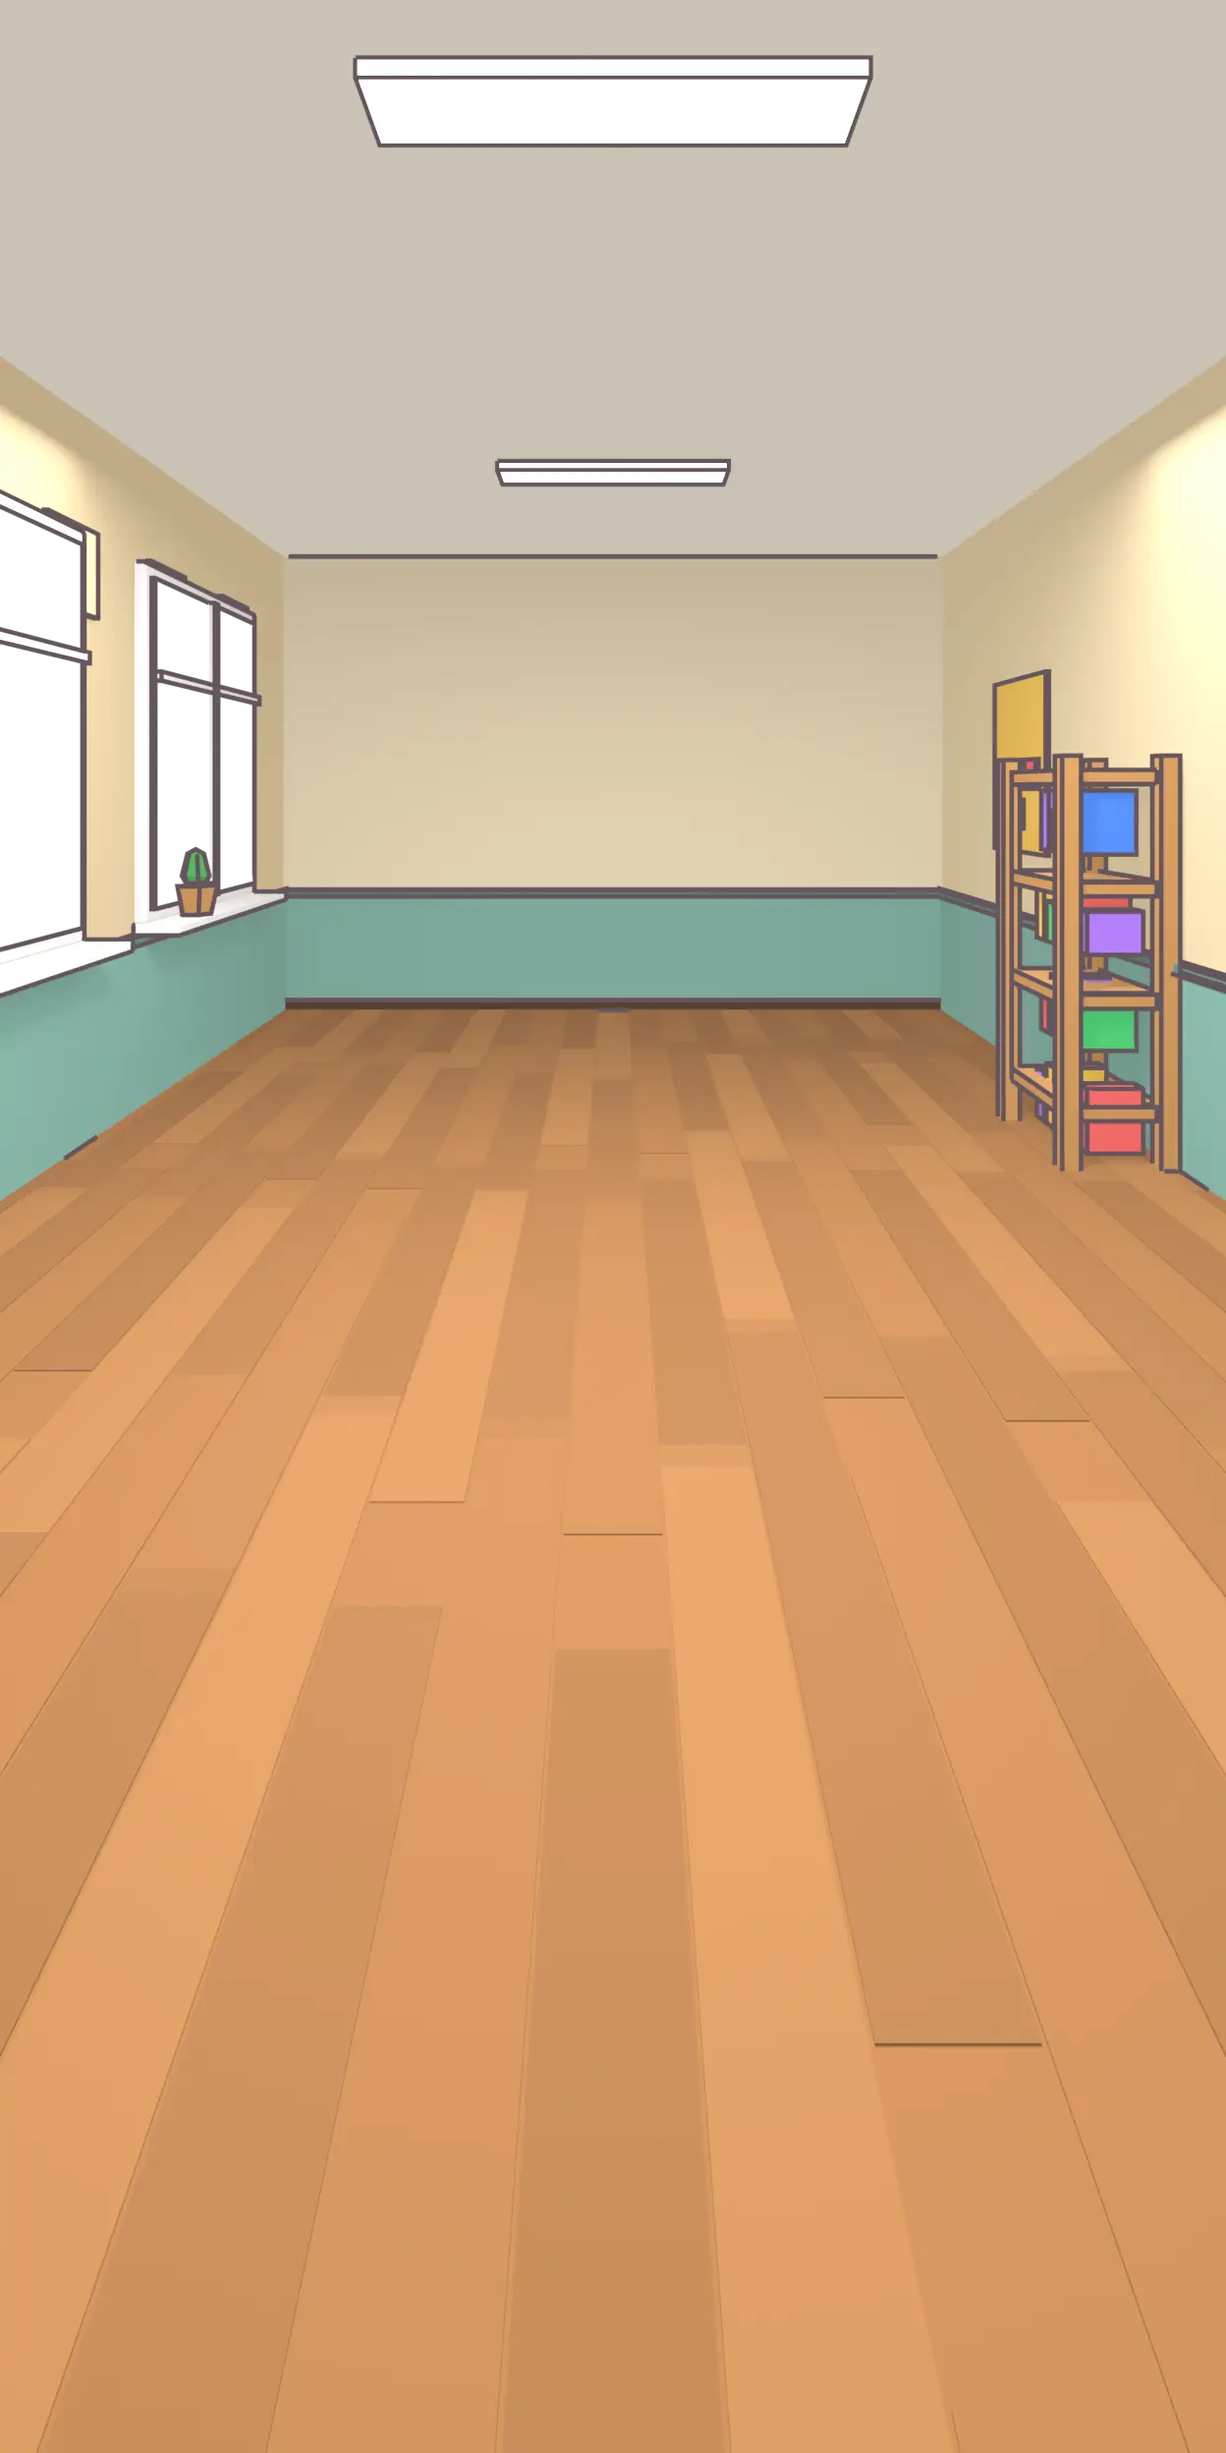
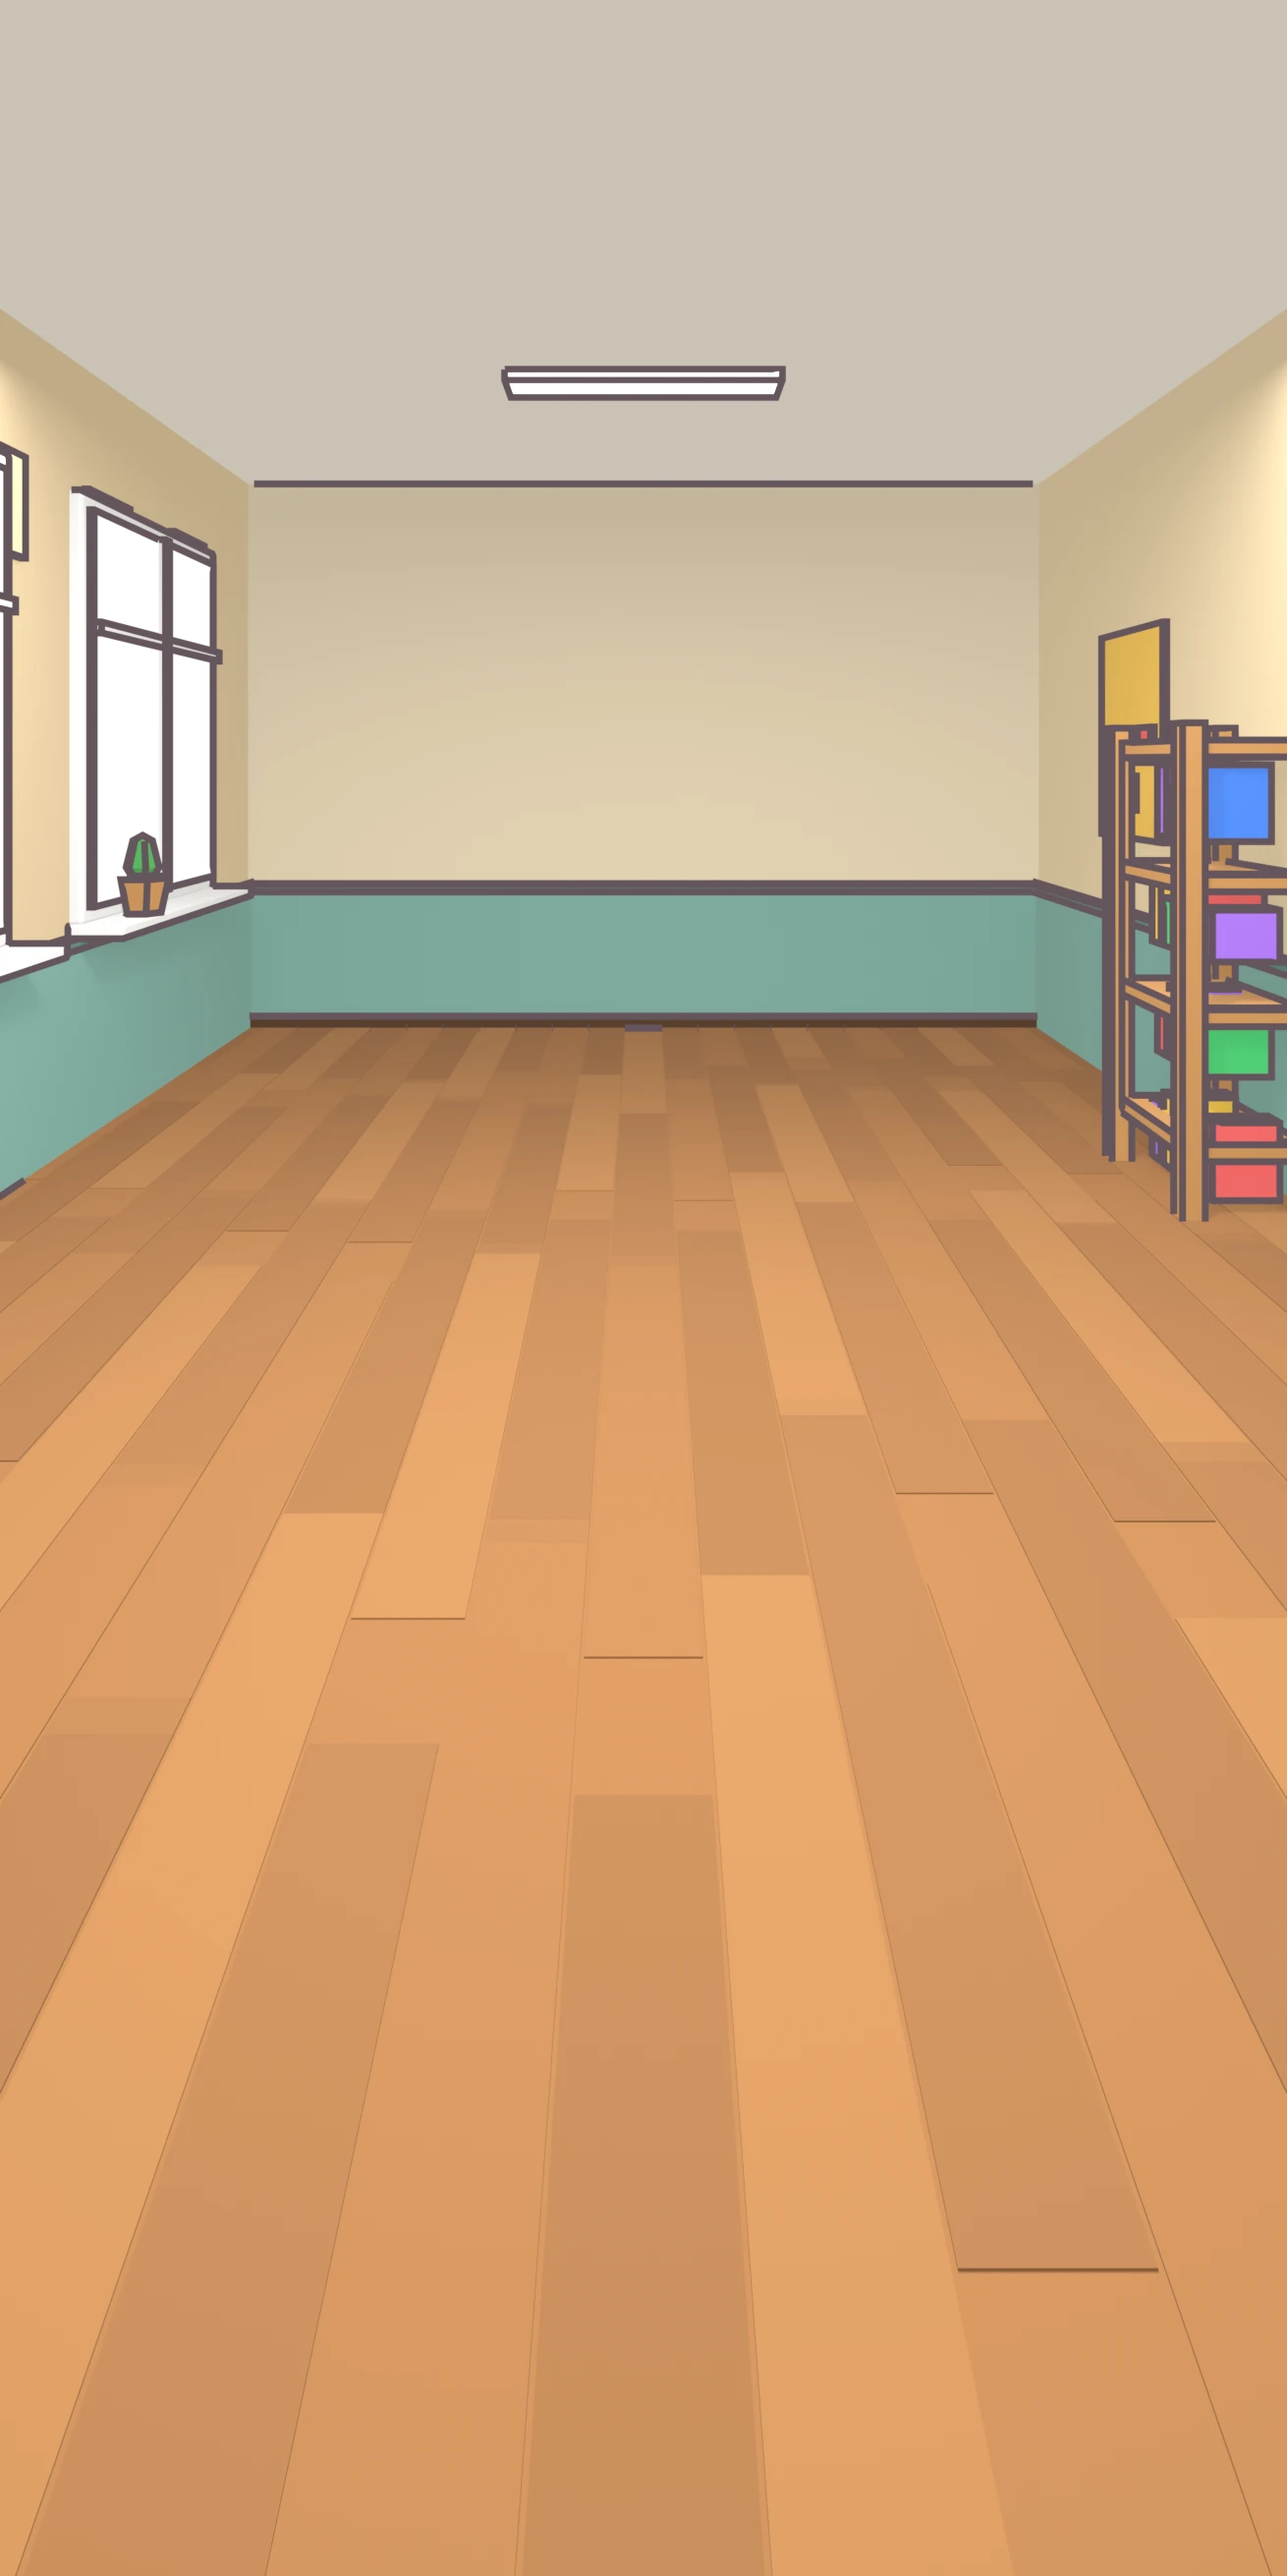
Skola: asāki klases foni (~2,3× izšķirtspēja, 1 px kontūras, 128 samples, webp q90), augstas kvalitātes mērogošana; game.js?v=26

diff --git a/skola/game.js b/skola/game.js
@@ -402,13 +402,13 @@ function winSky(at, wh, seed) {
   g.strokeStyle = '#3a3a4a'; g.lineWidth = Math.max(1.2, b * .3); g.lineCap = 'round'; g.beginPath(); g.moveTo(x - b, y - f); g.quadraticCurveTo(x - b * .4, y - b * .3, x, y); g.quadraticCurveTo(x + b * .4, y - b * .3, x + b, y - f); g.stroke();
 }
 // klases fons no Blendera (bg/build_bg.py): 4 atsauces ekrāni – izvēlas pēc aizmugurējās sienas proporcijas,
-// mērogo pēc sienas platuma un piesien pie grīdas līnijas fy. Kadrs ir 1.6× atsauces ekrāns (rezerve malām),
+// mērogo pēc sienas platuma un piesien pie grīdas līnijas fy. Kadrs ir BGX× atsauces ekrāns (rezerve malām),
 // logu stikls caurspīdīgs – aiz tā zīmē debesis (win: stikla taisnstūri atsauces px). Kamēr nav ielādēts – zīmētā telpa.
-const BGV = 1, BG = {
-  p: { w: 390, h: 780, fy: 279.2, ww: 335.4, wh: 230.07, win: [[-205.8, -16, -77.1, 271.6], [-39.8, 60.1, 11.1, 228.6]] },
-  pt: { w: 768, h: 1024, fy: 325.56, ww: 660.48, wh: 292.66, win: [[-411.7, -56.9, -156.3, 308.9], [-82.3, 44.7, 18.9, 259.1]] },
-  lt: { w: 1024, h: 768, fy: 287, ww: 713.44, wh: 245.5, win: [[-350.4, -41.7, -73.5, 265.2], [6.6, 49.1, 116.3, 228.9]] },
-  l: { w: 780, h: 390, fy: 205, ww: 576.8, wh: 147.62, win: [[-309.3, 12.8, -84.8, 197.3], [-19.8, 63.6, 69.1, 171.7]] } };
+const BGV = 2, BGX = 1.4, BG = { // attēli ~2,3× atsauces px – telefonā/planšetē netiek palielināti (asums)
+  p: { w: 390, h: 780, fy: 279.2, ww: 335.4, wh: 230.07, win: [[-205.9, -16, -77.2, 271.6], [-39.9, 60.1, 11, 228.6]] },
+  pt: { w: 768, h: 1024, fy: 325.56, ww: 660.48, wh: 292.66, win: [[-411.9, -56.9, -156.4, 308.9], [-82.4, 44.7, 18.8, 259.1]] },
+  lt: { w: 1024, h: 768, fy: 287, ww: 713.44, wh: 245.5, win: [[-350.4, -41.8, -73.5, 265.2], [6.6, 49, 116.3, 228.8]] },
+  l: { w: 780, h: 390, fy: 205, ww: 576.8, wh: 147.62, win: [[-309.3, 12.7, -84.8, 197.3], [-19.8, 63.5, 69.1, 171.7]] } };
 function roomImg() {
   const R = LY.room, a = (R.fy - R.top) / (R.wx1 - R.wx0); let k = 'p', d = 1e9;
   for (const key in BG) { const e = Math.abs(Math.log(BG[key].wh / BG[key].ww / a)); if (e < d) { d = e; k = key; } }
@@ -420,7 +420,8 @@ function roomImg() {
     const gr = g.createLinearGradient(0, Y0, 0, Y1); gr.addColorStop(0, '#8fd0ff'); gr.addColorStop(.62, '#d9f1ff'); gr.addColorStop(.63, '#8fcf7a'); gr.addColorStop(1, '#5fa84e');
     g.fillStyle = gr; g.fillRect(X0, Y0, X1 - X0, Y1 - Y0); g.save(); g.beginPath(); g.rect(X0, Y0, X1 - X0, Y1 - Y0); g.clip();
     winSky((u, v) => [X0 + (X1 - X0) * u, Y0 + (Y1 - Y0) * v], (Y1 - Y0) * .55, i * .37 + .12); g.restore(); });
-  g.drawImage(b.img, ox - b.w * .3 * s, oy - b.h * .3 * s, b.w * 1.6 * s, b.h * 1.6 * s);
+  const m = (BGX - 1) / 2; g.imageSmoothingEnabled = true; g.imageSmoothingQuality = 'high';
+  g.drawImage(b.img, ox - b.w * m * s, oy - b.h * m * s, b.w * BGX * s, b.h * BGX * s);
   return true;
 }
 function drawRoom() {

diff --git a/skola/index.html b/skola/index.html
@@ -35,6 +35,6 @@
 <div id="toast"></div>
 
 <script src="questions.js?v=2"></script>
-<script src="game.js?v=25"></script>
+<script src="game.js?v=26"></script>
 </body>
 </html>

diff --git a/skola/bg/build_bg.py b/skola/bg/build_bg.py
@@ -1,5 +1,5 @@
 # Skola – klases fons (Blender 5.x, EEVEE + Freestyle kontūras). Strādā tikai scēnā SKOLA_BG.
-# Palaišana: exec(open(ceļš).read()); all_refs()  → skola/bg/<ref>.png (pēc tam → webp) + izdrukā REFS datus game.js.
+# Palaišana: exec(open(ceļš).read()); all_refs()  → skola/bg/<ref>.png (pēc tam → webp q90) + izdrukā REFS datus game.js.
 # Telpu būvē pēc spēles layout() (hy, fy, wx0, wx1, top) atsauces izmērā; kadrs ir EXT reizes lielāks (rezerve malām),
 # lai spēle var to vienmērīgi mērogot pēc aizmugurējās sienas platuma un piesiet pie grīdas līnijas fy.
 # Logu stikls – caurspīdīgs (Holdout): aiz tā spēle zīmē debesis ar mākoņiem un putniem.
@@ -10,13 +10,13 @@ SC = bpy.data.scenes.get('SKOLA_BG') or bpy.data.scenes.new('SKOLA_BG')
 bpy.context.window.scene = SC
 OUT = '/Users/rihardsberzins/Documents/Tclaude/tailers-world/skola/bg/'
 FK = '/Users/rihardsberzins/Documents/Tclaude/tw-modeli/27-kenney-furniture-kit/Models/GLTF format/'
-EXT = 1.6  # kadrs pret atsauces ekrānu (0.3 rezerve katrā pusē)
+EXT = 1.4  # kadrs pret atsauces ekrānu (0.2 rezerve katrā pusē)
 # atsauces ekrāni (CSS px) un to layout() – izvēlas pēc aizmugurējās sienas proporcijas
 REFS = {
-    'p':  (390, 780,  {"hy": 167.69, "fy": 279.2, "wx0": 27.3, "wx1": 362.7, "top": 49.13}, 2.0),
-    'pt': (768, 1024, {"hy": 188.55, "fy": 325.56, "wx0": 53.76, "wx1": 714.24, "top": 32.9}, 1.25),
-    'lt': (1024, 768, {"hy": 177.5, "fy": 287, "wx0": 155.28, "wx1": 868.72, "top": 41.5}, 1.25),
-    'l':  (780, 390,  {"hy": 135.375, "fy": 205, "wx0": 101.6, "wx1": 678.4, "top": 57.375}, 2.0),
+    'p':  (390, 780,  {"hy": 167.69, "fy": 279.2, "wx0": 27.3, "wx1": 362.7, "top": 49.13}, 2.4),
+    'pt': (768, 1024, {"hy": 188.55, "fy": 325.56, "wx0": 53.76, "wx1": 714.24, "top": 32.9}, 2.2),
+    'lt': (1024, 768, {"hy": 177.5, "fy": 287, "wx0": 155.28, "wx1": 868.72, "top": 41.5}, 2.2),
+    'l':  (780, 390,  {"hy": 135.375, "fy": 205, "wx0": 101.6, "wx1": 678.4, "top": 57.375}, 2.4),
 }
 
 def hexc(h, a=1.0):
@@ -154,6 +154,7 @@ def camera(Wr, Hr, L, p, camh, k):
     cam.data.shift_x = 0; cam.data.shift_y = -(Hr/2 - L['hy']) / max(Wx, Hx)
     cam.data.clip_start = 0.05; cam.data.clip_end = 80
     SC.render.resolution_x, SC.render.resolution_y = round(Wx * k), round(Hx * k)
+    SC.render.line_thickness = 1.0 * k  # ~1 CSS px kontūra jebkurā izšķirtspējā
     return cam
 
 def look():
@@ -175,6 +176,8 @@ def look():
     l = fs.linesets[0]; l.linestyle.color = (.13, .09, .11); l.select_by_visibility = True
     l.select_by_collection = True; l.collection = coll('SKB_NOLINE'); l.collection_negation = 'EXCLUSIVE'
     SC.render.film_transparent = True
+    try: SC.eevee.taa_render_samples = 128  # bez graudiem mīkstajās ēnās
+    except AttributeError: pass
     SC.render.image_settings.file_format = 'PNG'; SC.render.image_settings.color_mode = 'RGBA'
 
 def win_boxes(cam, Wr, Hr, RW):

diff --git a/CLAUDE.md b/CLAUDE.md
@@ -123,7 +123,7 @@ Mini spēļu vietne https://tailersworld.lv (GitHub Pages, repo `RihardsABerzins
 - **Skolotāja ⚡ enerģija** (`energy`, `save.en`): krīt stundā (−0,3/s, palaists joks −4), zem 30 – ekrāns satumst un ❗ brīdinājumi īsāki, 0 – „snauž”, klases noskaņojums krīt. ☕ krūze uz galda: +40, atkal pilna pēc 35 s. **Skolas diena** (`save.day`, `DAY`): 4 stundas ar pulksteni augšā (8:30…), pēc 2. – 🍽 pusdienu pauze (enerģija 100%), pēc 4. – dienas bonuss €10.
 - **🚽 Tualete** (`wcStart`/`wcDecide`): kāds paceļ roku „Var uz tualeti?” ar pogām Laist/Nē. Šmaucējs (`fake`) smīn, kabatā 📱; tiešām vajag – dīdās un svīst. Pareizs lēmums +4 noskaņojums, €1, 5 XP; palaists šmaucējs atgriežas un „spēlēja telefonā”; neatbildot 9 s – tiešām vajadzīgajam mīnuss.
 - **Tāfeles krāsa** (`BOARDS`, `save.board/boards`): zaļa (bez maksas), melna, zila, ķiršu, baltā marķieru – veikalā „🛍 Klase un tāfele”.
-- **Klases fons** – uzrenderēts Blenderī (`skola/bg/build_bg.py` → `bg/p|pt|lt|l.webp`, 33–50 KB; telefons/planšete × vertikāli/horizontāli), Kenney Furniture Kit mēbeles (CC0, `tw-modeli/27-kenney-furniture-kit`). `roomImg()` izvēlas pēc aizmugurējās sienas proporcijas, mērogo pēc sienas platuma un piesien pie grīdas līnijas `fy` (kadrs 1.6× atsauces ekrāns – rezerve malām); logu stikls caurspīdīgs, aiz tā kods zīmē debesis ar mākoņiem/putniem (`BG[k].win`). Tāfele, pulkstenis, skolēni, rotājumi un skolotāja galds – kods. Kamēr fons nav ielādēts – zīmētā telpa. Mainot attēlus, palielini `BGV`; jaunu atsauces ekrānu pievieno `REFS` (skripts izdrukā `BG` datus).
+- **Klases fons** – uzrenderēts Blenderī (`skola/bg/build_bg.py` → `bg/p|pt|lt|l.webp`, 62–154 KB, ~2,3× atsauces px, webp q90, 128 samples – telefonā/planšetē netiek palielināti; telefons/planšete × vertikāli/horizontāli), Kenney Furniture Kit mēbeles (CC0, `tw-modeli/27-kenney-furniture-kit`). `roomImg()` izvēlas pēc aizmugurējās sienas proporcijas, mērogo pēc sienas platuma un piesien pie grīdas līnijas `fy` (kadrs `BGX`=1.4× atsauces ekrāns – rezerve malām; zīmē ar imageSmoothingQuality 'high'); logu stikls caurspīdīgs, aiz tā kods zīmē debesis ar mākoņiem/putniem (`BG[k].win`). Tāfele, pulkstenis, skolēni, rotājumi un skolotāja galds – kods. Kamēr fons nav ielādēts – zīmētā telpa. Mainot attēlus, palielini `BGV`; jaunu atsauces ekrānu pievieno `REFS` (skripts izdrukā `BG` datus).
 - **Instrukcija** (`INTRO`, `TW.intro('skola', …)`) pirms pirmās stundas: 4 īsti kadri `skola/intro/1–4.webp` (atbildes, ❗ draiskulis, tualete, kafija) + 📁 mapīte; vēlreiz ⚙ „❓ Kā spēlēt”. Kadrus uzņem ar `cv` → 640×400 webp.
 - Pirmajā stundā mācības ar dzelteno baneri (1. jautājumā joku nav, 2. – lēns). Atvērts logs = pauze (`LT` neiet).
 - Atlīdzība: €3 + €5 par pareizo + €1 par pieķerto + €1 par pareizu tualetes lēmumu (+€5, ja noskaņojums ≥80; +€5 par 8/8; +€10 dienas beigās); XP 10 par pareizo + 5 par pieķerto/tualeti (+20 par 8/8).
